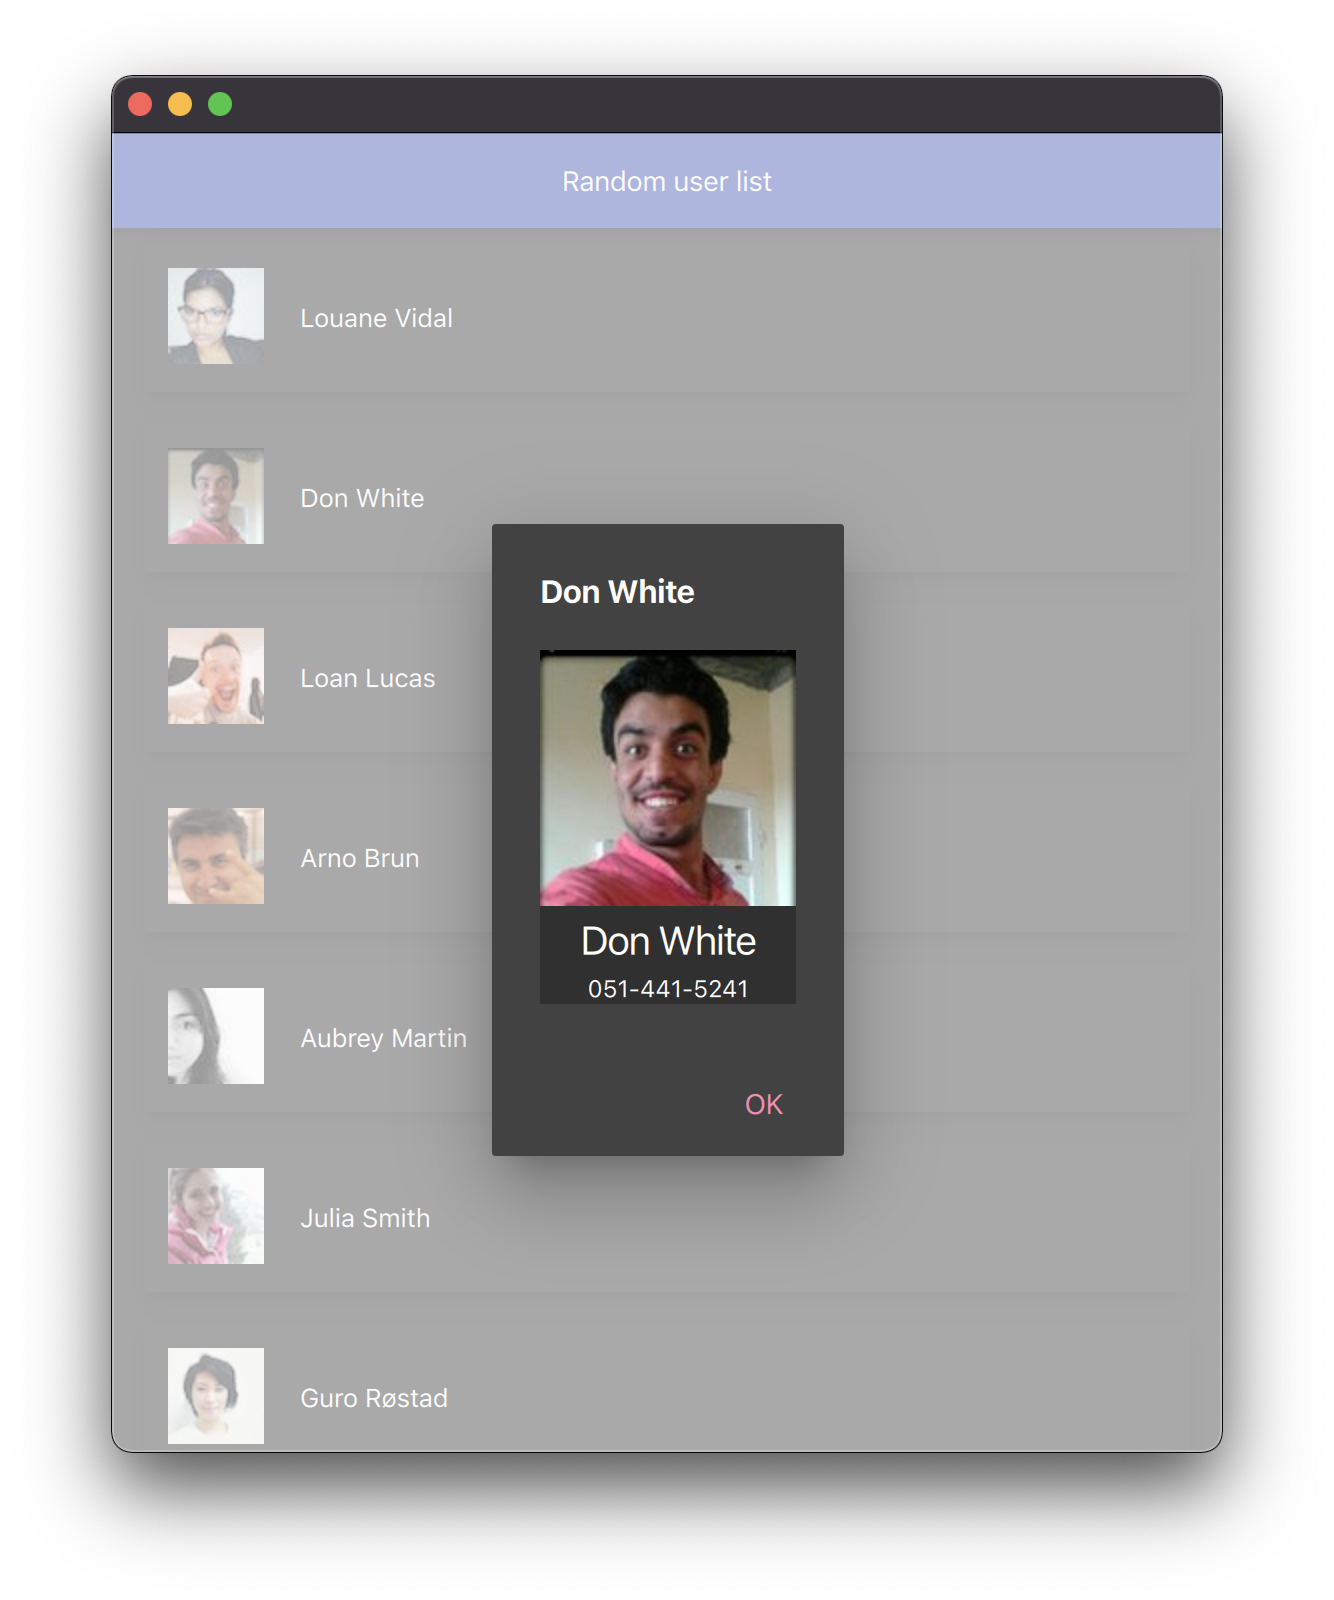
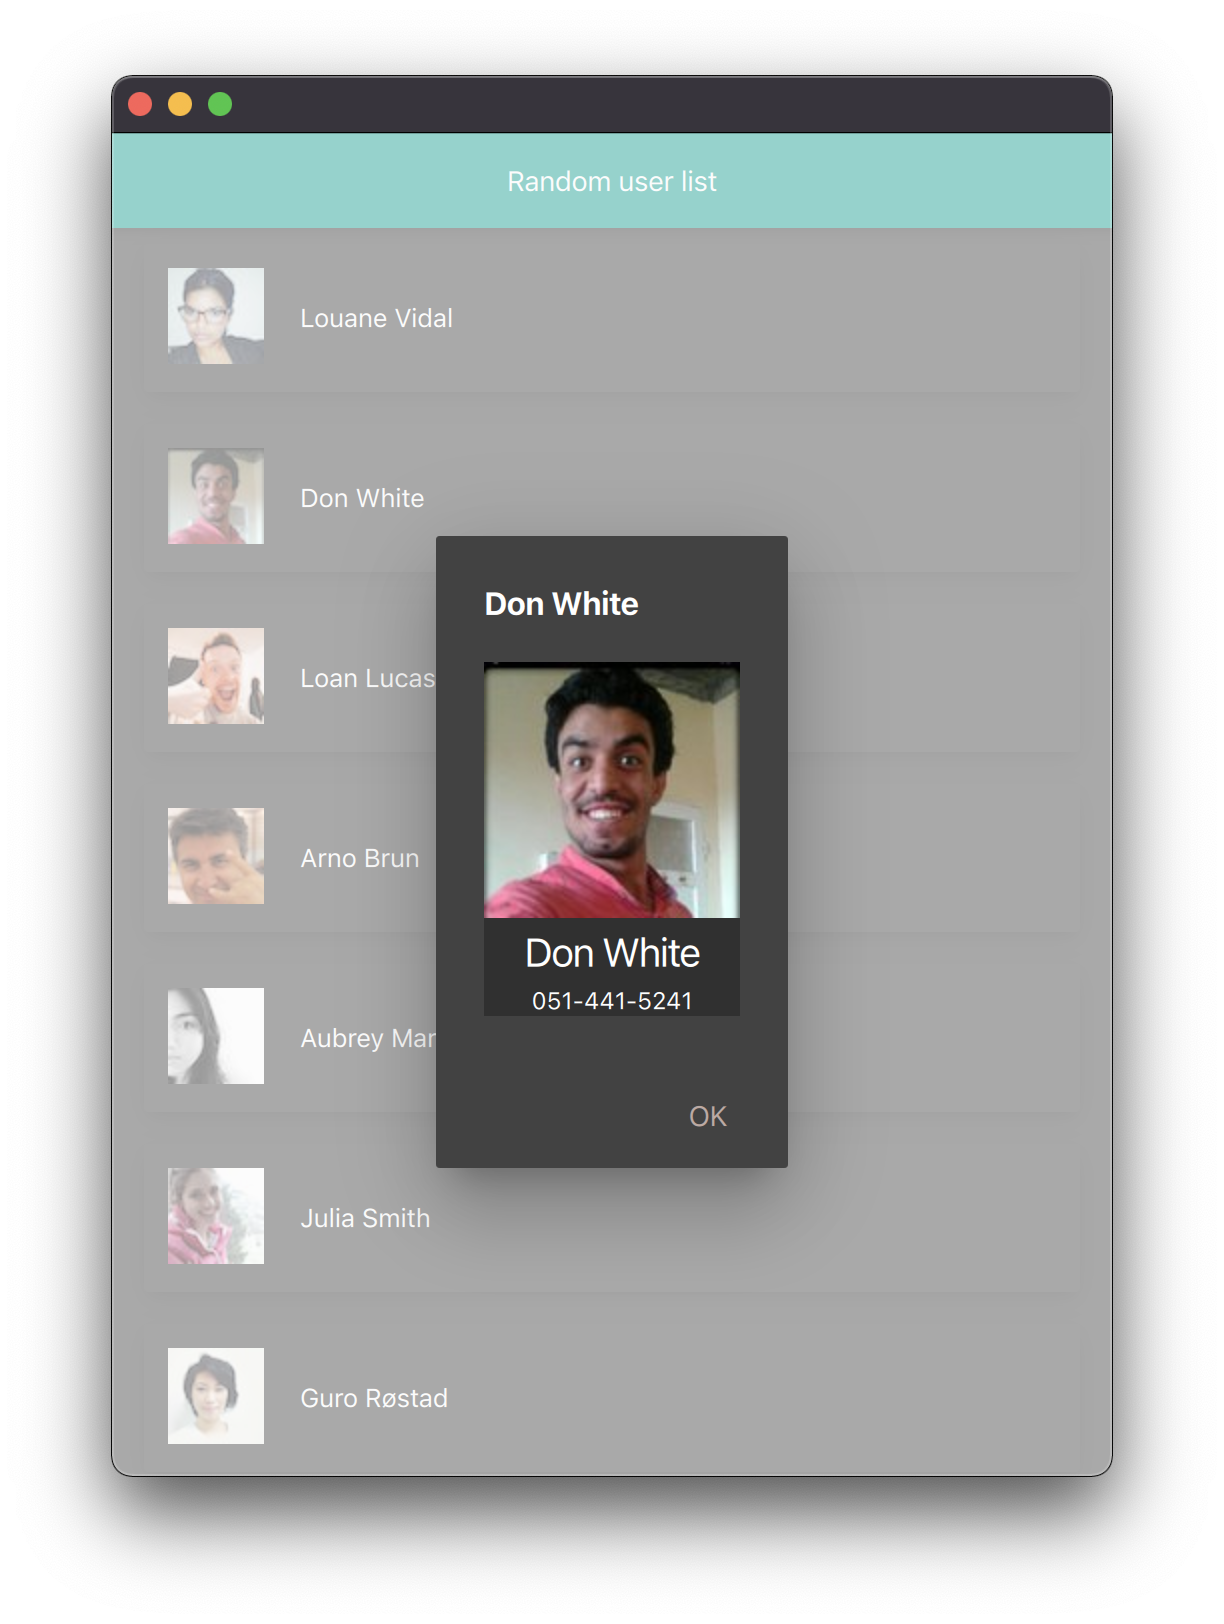
Specify custom colors for primary and accent

diff --git a/src/view/UserList.qml b/src/view/UserList.qml
@@ -8,6 +8,8 @@ ApplicationWindow {
     height: 500
     visible: true
     Material.theme: Material.System
+    Material.primary: Material.Teal
+    Material.accent: Material.Brown
     header: ToolBar {
         RowLayout {
             anchors.fill: parent
